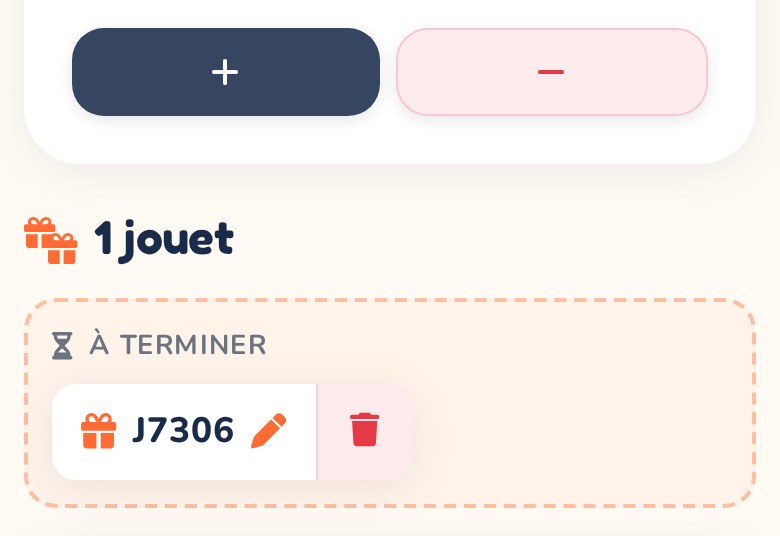
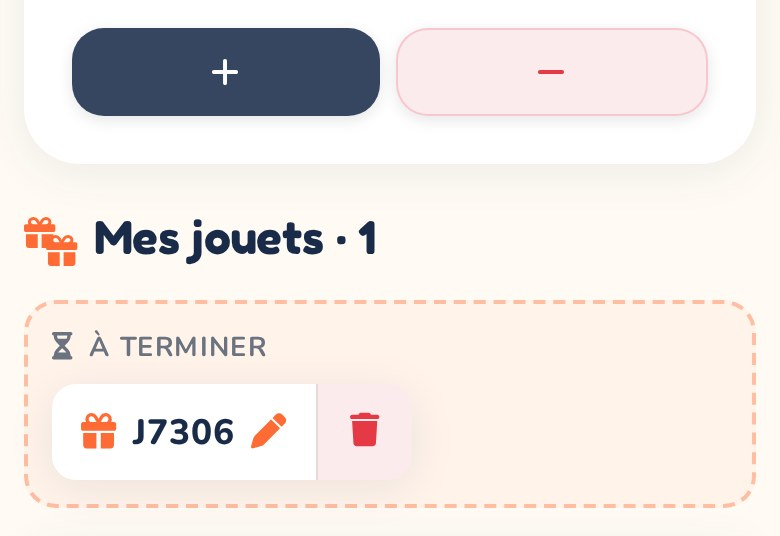
Jauge des caisses, procédure Tri, procédure Opérateur renommée Valorisation
Jauge « jouets sortis / jouets annoncés » sur la fiche et les cartes de la liste
des caisses : orange en cours, verte au compte exact, rouge avec avertissement
au-delà. Le créateur d'une caisse (TRI) peut la marquer vide. Nouvelle procédure
Tri (créer, étiqueter, suivre, récupérer une caisse, résultat du tri), avec ses
captures ; la procédure Opérateur devient Valorisation (ancienne adresse redirigée).

Claude-Session: https://claude.ai/code/session_01Ntw61KqSiSRAouwbz7PgoR

diff --git a/app/assets/stylesheets/components/_cards.scss b/app/assets/stylesheets/components/_cards.scss
@@ -1059,6 +1059,27 @@ a.toy-card {
   border-top: 1px dashed rgba($navy, 0.2);
   padding-top: 0.75rem;
 }
+// Jauge d'une caisse : jouets sortis / jouets annoncés.
+.box-progress {
+  grid-column: 1 / -1; width: 100%;
+  .box-progress-head { display: flex; align-items: center; justify-content: space-between; gap: 0.5rem; font-size: 1.15rem; color: $navy; margin-bottom: 0.3rem;
+    strong { font-size: 1.5rem; } i { color: darken($mint, 15%); font-size: 1.3rem; } }
+  .box-progress-track { height: 14px; background: rgba($navy, 0.1); border-radius: 999px; overflow: hidden; }
+  .box-progress-fill { height: 100%; min-width: 6px; background: $coral; border-radius: 999px; transition: width 0.3s ease; }
+  &.box-progress--done .box-progress-fill { background: darken($mint, 15%); }
+  // Plus de jouets sortis qu'annoncé : alerte rouge, pas une validation.
+  &.box-progress--over {
+    .box-progress-fill { background: darken($danger-red, 6%); }
+    .box-progress-head i, .box-progress-head strong { color: darken($danger-red, 10%); }
+  }
+  // Version des cartes de la liste : plus fine.
+  &.box-progress--compact {
+    margin-top: 0.5rem;
+    .box-progress-head { font-size: 0.9rem; margin-bottom: 0.2rem; strong { font-size: 1.1rem; } i { font-size: 1rem; } }
+    .box-progress-track { height: 8px; }
+  }
+}
+
 .reassign-btn { background: $white; border: 2px solid $navy; color: $navy; font-weight: 800; white-space: nowrap; min-height: 44px;
   &:hover, &:focus-visible { background: $navy; color: $white; } }
 .reassign-label { display: block; font-size: 0.85rem; font-weight: 700; color: $navy; margin-bottom: 0.35rem; }

diff --git a/test/controllers/boxes_controller_test.rb b/test/controllers/boxes_controller_test.rb
@@ -23,6 +23,39 @@ class BoxesControllerTest < ActionDispatch::IntegrationTest
     assert_response :success
   end
 
+  test "jauge de progression : jouets sortis sur jouets annoncés, tous opérateurs confondus" do
+    box = Box.create!(category: default_category, status: "pending", nb_toys: 4)
+    create_toy(box: box)                       # celui d'un collègue : invisible en liste, compté dans la jauge
+    create_toy(box: box, status: "suppr")      # écarté : sorti quand même
+    mine = create_toy(box: box)
+    touch(mine, @user)
+    Toy.new(box: box, status: "draft").save(validate: false) # brouillon : pas compté
+    sign_in @user
+    get box_path(box)
+    assert_select ".box-progress-head strong", text: "3"
+    assert_select ".box-progress-head", text: %r{3\s*/ 4 jouets}
+    assert_select "h2", text: /Mes jouets · 1/
+    assert_select ".box-progress-fill[style*='width: 75%']"
+    assert_select "a.toy-card", count: 1
+
+    create_toy(box: box)
+    get box_path(box)
+    assert_select ".box-progress--done .fa-circle-check"
+    assert_select ".box-progress--over", count: 0
+
+    # un jouet de plus qu'annoncé : alerte rouge, plus de coche verte
+    create_toy(box: box)
+    get box_path(box)
+    assert_select ".box-progress--over .fa-triangle-exclamation"
+    assert_select ".box-progress .fa-circle-check", count: 0
+    assert_select ".box-progress-fill[style*='width: 100%']"
+    Toy.where(box: box).last.destroy
+
+    # la jauge figure aussi sur la carte de la caisse, dans la liste
+    get boxes_path
+    assert_select "a.box-card[href*='/boxes/#{box.id}'] .box-progress--compact .box-progress-head", text: %r{4\s*/ 4 jouets}
+  end
+
   test "création d'une caisse" do
     sign_in @user
     assert_difference("Box.count", 1) do

diff --git a/app/controllers/pages_controller.rb b/app/controllers/pages_controller.rb
@@ -21,8 +21,10 @@ class PagesController < ApplicationController
   # Procédures consultables dans l'appli et imprimables en PDF. `admin: true` =
   # réservée aux administrateurs (contrôle qualité, tableau de bord).
   PROCEDURES = {
-    "operateur" => { title: "Opérateur", icon: "fa-hands-holding-child", admin: false, template: "operateur",
-                     summary: "Reprendre un jouet refusé, écarter un jouet, jouets à terminer." },
+    "tri" => { title: "Tri", icon: "fa-boxes-stacked", admin: false, template: "tri",
+               summary: "Ce qu'on met dans une caisse, la créer, l'étiqueter, la récupérer vide." },
+    "valorisation" => { title: "Valorisation", icon: "fa-hands-holding-child", admin: false, template: "valorisation",
+                        summary: "Reprendre un jouet refusé, écarter un jouet, jouets à terminer." },
     "controle-qualite" => { title: "Contrôle qualité", icon: "fa-magnifying-glass", admin: true, template: "controle_qualite",
                             summary: "Causes, commentaires, 2e tour, arbitrage, réattribution." },
     "tableau-de-bord" => { title: "Tableau de bord", icon: "fa-chart-bar", admin: true, template: "tableau_de_bord",
@@ -35,6 +37,8 @@ class PagesController < ApplicationController
   end
 
   def procedure
+    return redirect_to(procedure_path("valorisation"), status: :moved_permanently) if params[:slug] == "operateur" # ancien nom
+
     procedure = PROCEDURES[params[:slug]] or raise ActiveRecord::RecordNotFound
     authorize :page, procedure[:admin] ? :dashboard? : :onboarding?
     render "pages/procedures/#{procedure[:template]}"

diff --git a/test/controllers/pages_controller_test.rb b/test/controllers/pages_controller_test.rb
@@ -95,16 +95,21 @@ class PagesControllerTest < ActionDispatch::IntegrationTest
     assert_equal 90, QualitySetting.current.target_valo
   end
 
-  test "procédures : l'opérateur ne voit que la sienne, l'admin les trois" do
+  test "procédures : l'opérateur voit Tri et Valorisation, l'admin les quatre" do
     get procedures_path
     assert_redirected_to new_user_session_path
 
     sign_in create_user
     get procedures_path
-    assert_select "a.procedure-card", count: 1
-    get procedure_path("operateur")
+    assert_select "a.procedure-card", count: 2
+    get procedure_path("operateur") # ancien nom de la procédure Valorisation
+    assert_redirected_to procedure_path("valorisation")
+    get procedure_path("valorisation")
     assert_response :success
     assert_select ".procedure-causes li", count: QualityCause::DISCARD.size
+    get procedure_path("tri")
+    assert_response :success
+    assert_select ".procedure-causes li", count: QualityCause::TRI_KEYS.size
     %w[controle-qualite tableau-de-bord].each do |slug|
       get procedure_path(slug)
       assert_redirected_to root_path
@@ -113,8 +118,8 @@ class PagesControllerTest < ActionDispatch::IntegrationTest
 
     sign_in create_user(admin: true)
     get procedures_path
-    assert_select "a.procedure-card", count: 3
-    %w[operateur controle-qualite tableau-de-bord].each do |slug|
+    assert_select "a.procedure-card", count: 4
+    %w[tri valorisation controle-qualite tableau-de-bord].each do |slug|
       get procedure_path(slug)
       assert_response :success, slug
       assert_select "button", text: "Imprimer en PDF"

diff --git a/app/controllers/boxes_controller.rb b/app/controllers/boxes_controller.rb
@@ -22,6 +22,8 @@ class BoxesController < ApplicationController
       @boxes = base_scope.active.order(created_at: :desc)
     end
     @boxes = paginate(@boxes) unless params[:q].present?
+    # Jauge des cartes : jouets sortis de chaque caisse affichée, en une requête.
+    @toys_out = Toy.not_draft.where(box_id: @boxes.map(&:id)).group(:box_id).count
     own = if current_user.admin?
             Box
           else
@@ -46,6 +48,9 @@ class BoxesController < ApplicationController
     @toys = policy_scope(@box.toys).not_draft.includes(:quality_checks, :category).with_attached_photo
                                    .order(created_at: :desc).load
     @drafts = policy_scope(@box.toys).draft.order(:id)
+    # Jauge « jouets sortis / jouets annoncés » : tous les jouets sortis de la caisse, par
+    # n'importe qui et quelle que soit leur destination (un employé ne voit que les siens en liste).
+    @toys_out = @box.toys.not_draft.count
     @timeline = Action.where(actionable: @box)
                       .or(Action.where(actionable: @toys))
                       .includes(:user)

diff --git a/app/policies/box_policy.rb b/app/policies/box_policy.rb
@@ -39,11 +39,13 @@ class BoxPolicy < ApplicationPolicy
     user.admin? || record.actions.where(user: user).any?
   end
 
-  # Règle métier : celui qui vient de vider la caisse (dernier à avoir créé
-  # un jouet depuis celle-ci) peut la marquer vide, ou la remettre en cours
-  # en cas de fausse manip. L'admin peut toujours.
+  # Règle métier : c'est l'opérateur du TRI qui marque la caisse vide quand il la
+  # récupère — donc celui qui l'a créée (ou modifiée). Celui qui vient de la vider
+  # (dernier à avoir créé un jouet depuis celle-ci) le peut aussi, et chacun peut
+  # la remettre en cours en cas de fausse manip. L'admin peut toujours.
   def toggle_empty?
     return true if user.admin?
+    return true if record.actions.exists?(user: user)
 
     last_toy = record.toys.not_draft.order(created_at: :desc).first
     last_toy.present? && last_toy.actions.exists?(user: user)

diff --git a/test/policies/box_policy_test.rb b/test/policies/box_policy_test.rb
@@ -47,6 +47,11 @@ class BoxPolicyTest < ActiveSupport::TestCase
     assert BoxPolicy.new(last_creator, @box).toggle_empty?, "le dernier créateur peut corriger une fausse manip"
     assert_not BoxPolicy.new(first_creator, @box).toggle_empty?, "un créateur antérieur ne peut plus"
     assert_not BoxPolicy.new(@stranger, @box).toggle_empty?
+
+    # le TRI : celui qui a créé la caisse la marque vide quand il la récupère
+    sorter = create_user
+    touch(@box, sorter, content: "a créé la caisse")
+    assert BoxPolicy.new(sorter, @box).toggle_empty?
   end
 
   test "toggle_empty : refusé à un non-admin sur une caisse sans jouet" do

diff --git a/CLAUDE.md b/CLAUDE.md
@@ -36,7 +36,7 @@ Rails 8.1.2 app (Ruby 3.3.5) bootstrapped from the Le Wagon template. PostgreSQL
 The app manages donated/refurbished toy inventory for a French resale operation:
 
 - **Category** — top-level grouping (e.g. puzzle, jeu de société). `mixed` (boolean) flags a box-only category: **« Grosses pièces »** = a 2 m roll mixing bulky toys of different categories. Such a category can be picked for a Box, never for a Toy (`Category.for_toys`, validation on Toy), and a toy created from that box inherits **no** category (`Box#toy_category` → nil, `toys.category_id` is nullable): the operator must choose it in the form; until then badges show « À choisir » (`category_icon` / `category_name` helpers — never call `toy.category.name` directly).
-- **Box** — a physical donation box, belongs to a Category, has weight and electronic flag
+- **Box** — a physical donation box, belongs to a Category, has an electronic flag and `nb_toys` (number announced by the TRI operator). **Jauge** (`boxes/_progress`, on the box page and on list cards): toys taken out (all operators, discarded included, drafts excluded) / `nb_toys` — orange while in progress, green + check when exact, **red + warning when more toys came out than announced**. Marking a box empty is always manual (`toggle_empty`): by its creator (the TRI operator who gets it back), by whoever created the last toy from it, or by an admin
 - **Toy** — individual toy, belongs to a Box and Category. Has condition fields (`clean`, `complete`, `playable`), `location` (defaults to "En attente de validation"), `price` (AI-suggested), `barcode`, and an attached `photo`
 - **Action** — polymorphic audit log; records every user action on a Box or Toy with a `content` string. Also used to determine ownership for authorization.
 - **User** — Devise authentication with an `admin` boolean flag
@@ -77,7 +77,7 @@ Vocabulaire du client : **TRI** = atelier qui remplit les caisses (le créateur 
 - **Responsable d'un jouet** : `toys.operator_id` = valorisateur (créateur), à qui la non-conformité est comptée ; `toys.assignee_id` = personne à qui un admin a **confié** le jouet (opérateur absent, `PATCH /toys/:id/reassign`, admins seulement) — elle y a alors accès (`ToyPolicy#involved?`) et le voit dans « À reprendre » (`Toy.held_by`).
 - **Objectifs** réglables : `QualitySetting` (ligne unique : `target_valo`, `target_tri`, `red_after_days`, `min_sample`). **Seuil de fiabilité** `min_sample` (20) : en dessous de ce nombre de jouets contrôlés, aucun pourcentage n'est affiché (« 9 sur 10 » à la place) — atelier, opérateur, semaine de la courbe. Un jouet est compté à la date de son contrôle, pas de sa valorisation : sur une journée (`QualityDashboard#daily?`), le tableau par opérateur devient un suivi du stock (NC ouvertes, refus reçus, retraités) au lieu d'un taux. Décidé avec Cyrille le 16/11/2026.
 - **Tableau de bord** (`/dashboard`, admins) : volet qualité calculé par `QualityDashboard` (définitions des indicateurs en tête du fichier), rendu par `pages/_quality`. Bandeau « En ce moment » indépendant de la période ; Bon du 1er coup VALO et TRI avec objectif ; causes, opérateurs, matrice opérateur × cause, TRI par créateur de caisse. Tout chiffre cliquable charge `GET /dashboard/quality_detail` dans le turbo-frame `quality-detail`, placé dans une fenêtre modale (plein écran sur téléphone) ouverte par le contrôleur Stimulus `quality-detail` — qui charge aussi à la main les liens SVG de la courbe, que Turbo n'intercepte pas. La fenêtre a son bouton « Imprimer cette liste ». Objectifs : `PATCH /quality_setting`. Impression/PDF : `@media print` dans `pages/_dashboard.scss` (sauts de page à affiner avec le client). Périodes : `today`, `prev_day` (« Hier » = jour ouvré précédent), `last_week`, `four_weeks`, `month`, `custom`.
-- **Procédures** (`/procedures`, menu du compte) : trois modes d'emploi lisibles dans l'appli et imprimables en PDF — `operateur` (tous ; une page A4 d'affiche + une page « en images »), `controle-qualite` et `tableau-de-bord` (admins). Vues dans `pages/procedures/`, styles dans `pages/_onboarding.scss`. Les listes de causes et les seuils y sont lus en direct (`QualityCause`, `QualitySetting`). Les **captures d'écran** (`app/assets/images/procedures/`) montrent des comptes et jouets fictifs : `bin/procedures-captures` recrée la base `re_play_demo` (`procedures:seed_demo`, refusé hors d'une base `_demo`), lance l'appli et un Chrome sans écran (Docker `chromedp/headless-shell`, Node 22+) puis exécute `lib/demo/captures.mjs`. À relancer quand un écran montré change. Impression : page nommée `document` (marges + pied de page), car `_projet.scss` impose `@page { margin: 0 }` à tout le site.
+- **Procédures** (`/procedures`, menu du compte) : quatre modes d'emploi lisibles dans l'appli et imprimables en PDF — `tri` (poste qui fabrique les caisses et les récupère vides) et `valorisation` (ex-`operateur`, qui redirige ; affiche d'une page A4) pour tous, `controle-qualite` et `tableau-de-bord` pour les admins. Vues dans `pages/procedures/`, styles dans `pages/_onboarding.scss`. Les listes de causes et les seuils y sont lus en direct (`QualityCause`, `QualitySetting`). Les **captures d'écran** (`app/assets/images/procedures/`) montrent des comptes et jouets fictifs : `bin/procedures-captures` recrée la base `re_play_demo` (`procedures:seed_demo`, refusé hors d'une base `_demo`), lance l'appli et un Chrome sans écran (Docker `chromedp/headless-shell`, Node 22+) puis exécute `lib/demo/captures.mjs`. À relancer quand un écran montré change. Impression : page nommée `document` (marges + pied de page), car `_projet.scss` impose `@page { margin: 0 }` à tout le site.
 - **Historique** : `bin/rails quality:backfill` (`DRY_RUN=1` pour un essai) reconstruit les `QualityCheck` d'avant le 16/11/2026 depuis le journal des actions — causes approximatives, pas de date de retraitement. À lancer une fois après la mise en production ; sans danger à relancer.
 - `admin_comment` ne sert plus au CQ (ancien commentaire affiché seulement si le jouet n'a aucun `QualityCheck`) ; il porte toujours la note « prix IA impossible ».
 
